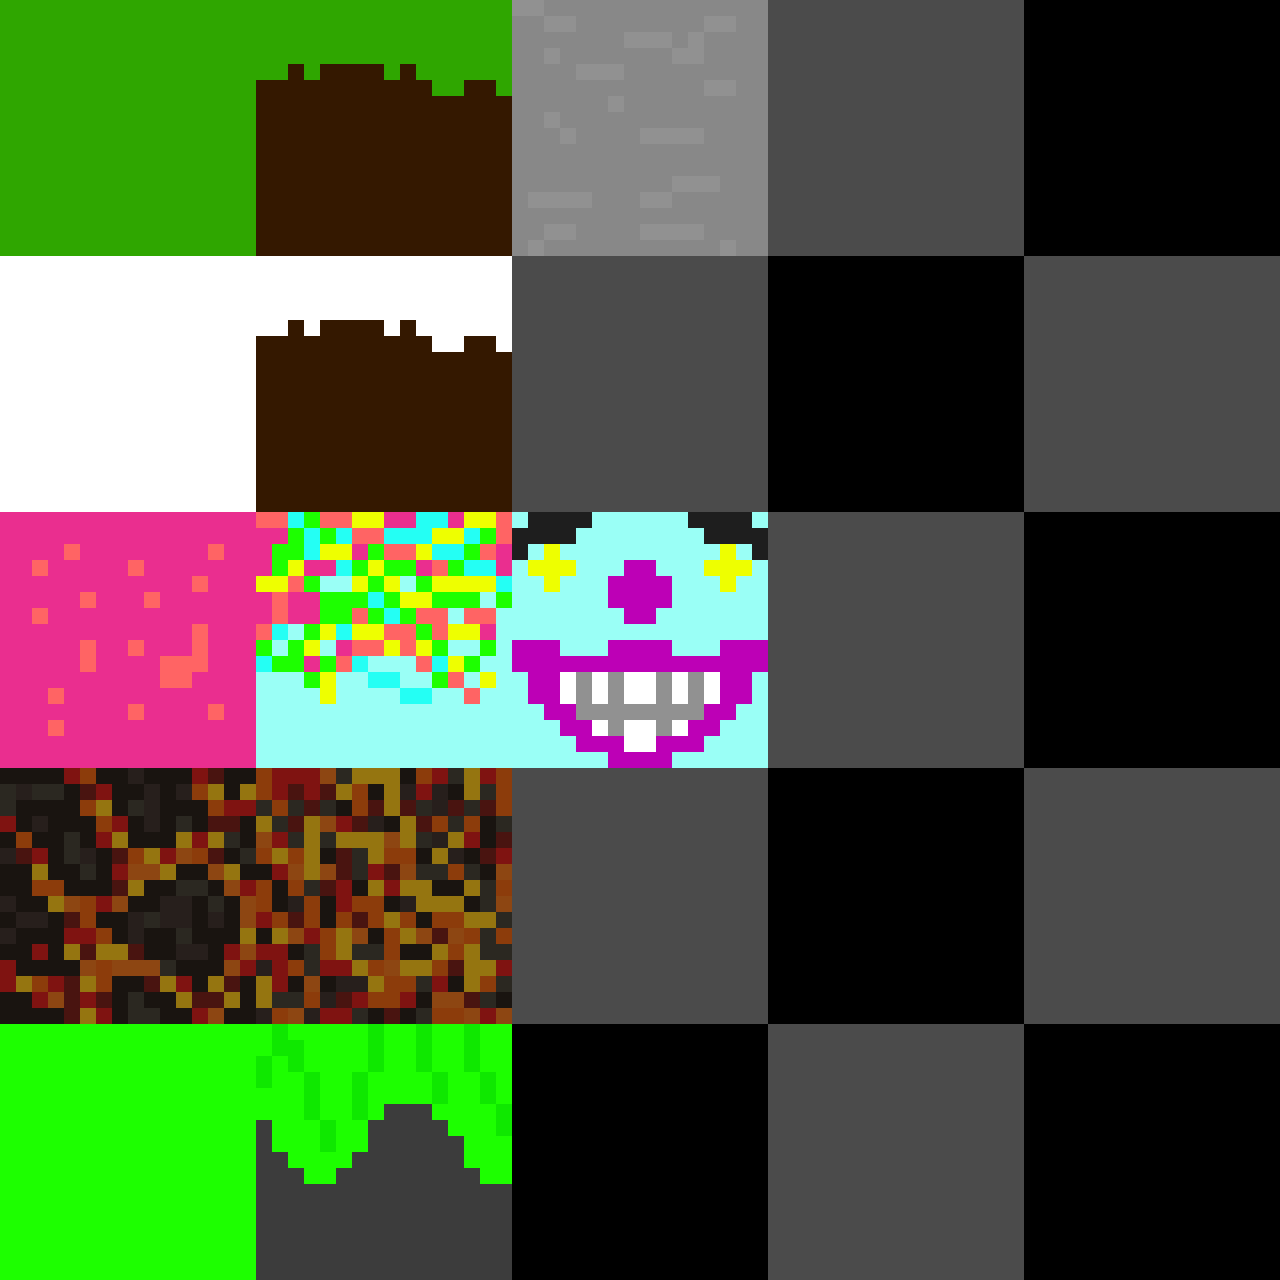
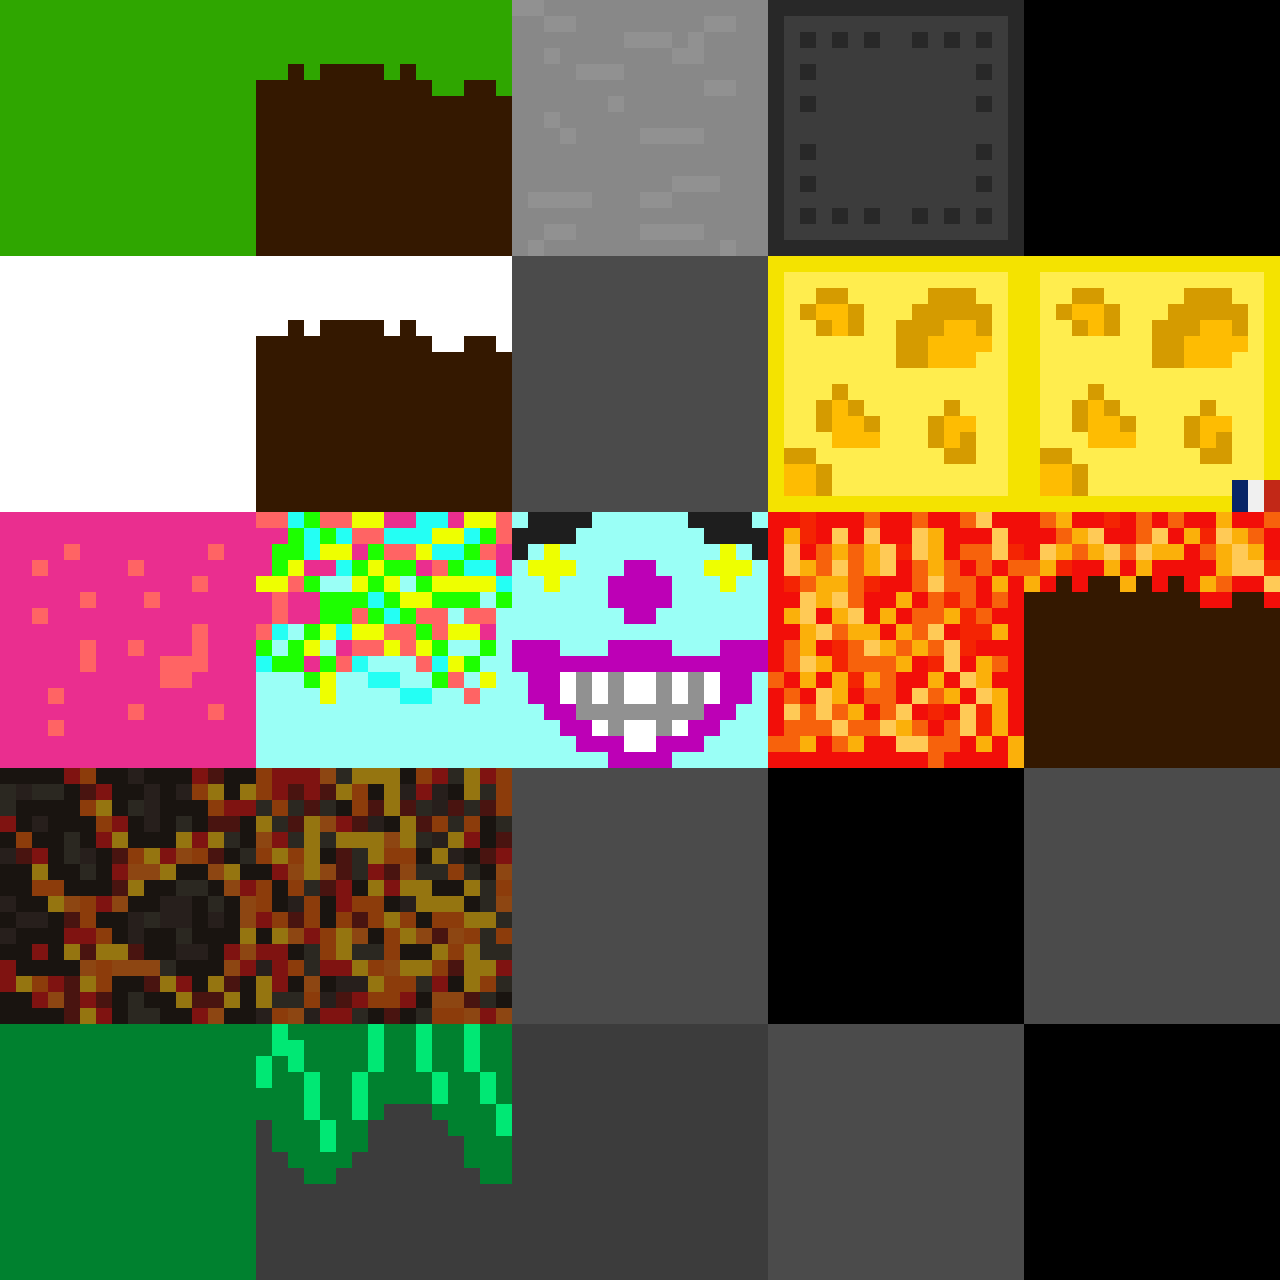
Adding new blocks

Changed region(s): [[0.5938, 0.0, 1.0, 0.625], [0.0, 0.7812, 0.625, 1.0]]

diff --git a/Assets/Source_Code/Cube.cs b/Assets/Source_Code/Cube.cs
@@ -18,7 +18,20 @@ public class Cube
                                              {new Vector2(0.2f, 0.2f), new Vector2(0.4f, 0.2f), new Vector2(0.2f, 0.4f), new Vector2(0.4f, 0.4f)},              // HELL UNDER SIDE
                                              {new Vector2(0.0f, 0.4f), new Vector2(0.2f, 0.4f), new Vector2(0.0f, 0.6f), new Vector2(0.2f, 0.6f)},              // DREAMY TOP TOP
 	                                         {new Vector2(0.2f, 0.4f), new Vector2(0.4f, 0.4f), new Vector2(0.2f, 0.6f), new Vector2(0.4f, 0.6f)},              // DREAMY TOP SIDE
-		                                     {new Vector2(0.4f, 0.4f), new Vector2(0.6f, 0.4f), new Vector2(0.4f, 0.6f), new Vector2(0.6f, 0.6f)}};             // DREAMY UNDER SIDE
+		                                     {new Vector2(0.4f, 0.4f), new Vector2(0.6f, 0.4f), new Vector2(0.4f, 0.6f), new Vector2(0.6f, 0.6f)},              // DREAMY UNDER SIDE
+                                             {new Vector2(0.6f, 0.8f), new Vector2(0.8f, 0.8f), new Vector2(0.6f, 1.0f), new Vector2(0.8f, 1.0f)},              // METAL TOP TOP
+	                                         {new Vector2(0.6f, 0.8f), new Vector2(0.8f, 0.8f), new Vector2(0.6f, 1.0f), new Vector2(0.8f, 1.0f)},              // METAL TOP SIDE
+		                                     {new Vector2(0.6f, 0.8f), new Vector2(0.8f, 0.8f), new Vector2(0.6f, 1.0f), new Vector2(0.8f, 1.0f)},              // METAL UNDER SIDE
+                                             {new Vector2(0.6f, 0.6f), new Vector2(0.8f, 0.6f), new Vector2(0.6f, 0.8f), new Vector2(0.8f, 0.8f)},              // CHEESE TOP TOP
+	                                         {new Vector2(0.8f, 0.6f), new Vector2(1.0f, 0.6f), new Vector2(0.8f, 0.8f), new Vector2(1.0f, 0.8f)},              // CHEESE TOP SIDE
+		                                     {new Vector2(0.8f, 0.6f), new Vector2(1.0f, 0.6f), new Vector2(0.8f, 0.8f), new Vector2(1.0f, 0.8f)},              // CHEESE UNDER SIDE
+                                             {new Vector2(0.6f, 0.4f), new Vector2(0.8f, 0.4f), new Vector2(0.6f, 0.6f), new Vector2(0.8f, 0.6f)},              // AUTUMN TOP TOP
+	                                         {new Vector2(0.8f, 0.4f), new Vector2(1.0f, 0.4f), new Vector2(0.8f, 0.6f), new Vector2(1.0f, 0.6f)},              // AUTUMN TOP SIDE
+		                                     {new Vector2(0.4f, 0.8f), new Vector2(0.6f, 0.8f), new Vector2(0.4f, 1.0f), new Vector2(0.6f, 1.0f)},              // AUTUMN UNDER SIDE
+                                             {new Vector2(0.0f, 0.0f), new Vector2(0.2f, 0.0f), new Vector2(0.0f, 0.2f), new Vector2(0.2f, 0.2f)},              // ROTTING TOP TOP
+	                                         {new Vector2(0.2f, 0.0f), new Vector2(0.4f, 0.0f), new Vector2(0.2f, 0.2f), new Vector2(0.4f, 0.2f)},              // ROTTING TOP SIDE
+		                                     {new Vector2(0.4f, 0.4f), new Vector2(0.6f, 0.4f), new Vector2(0.4f, 0.6f), new Vector2(0.6f, 0.6f)}};             // ROTTING UNDER SIDE
+                                            
 
     private GameObject parent;
     private Vector3 position;
